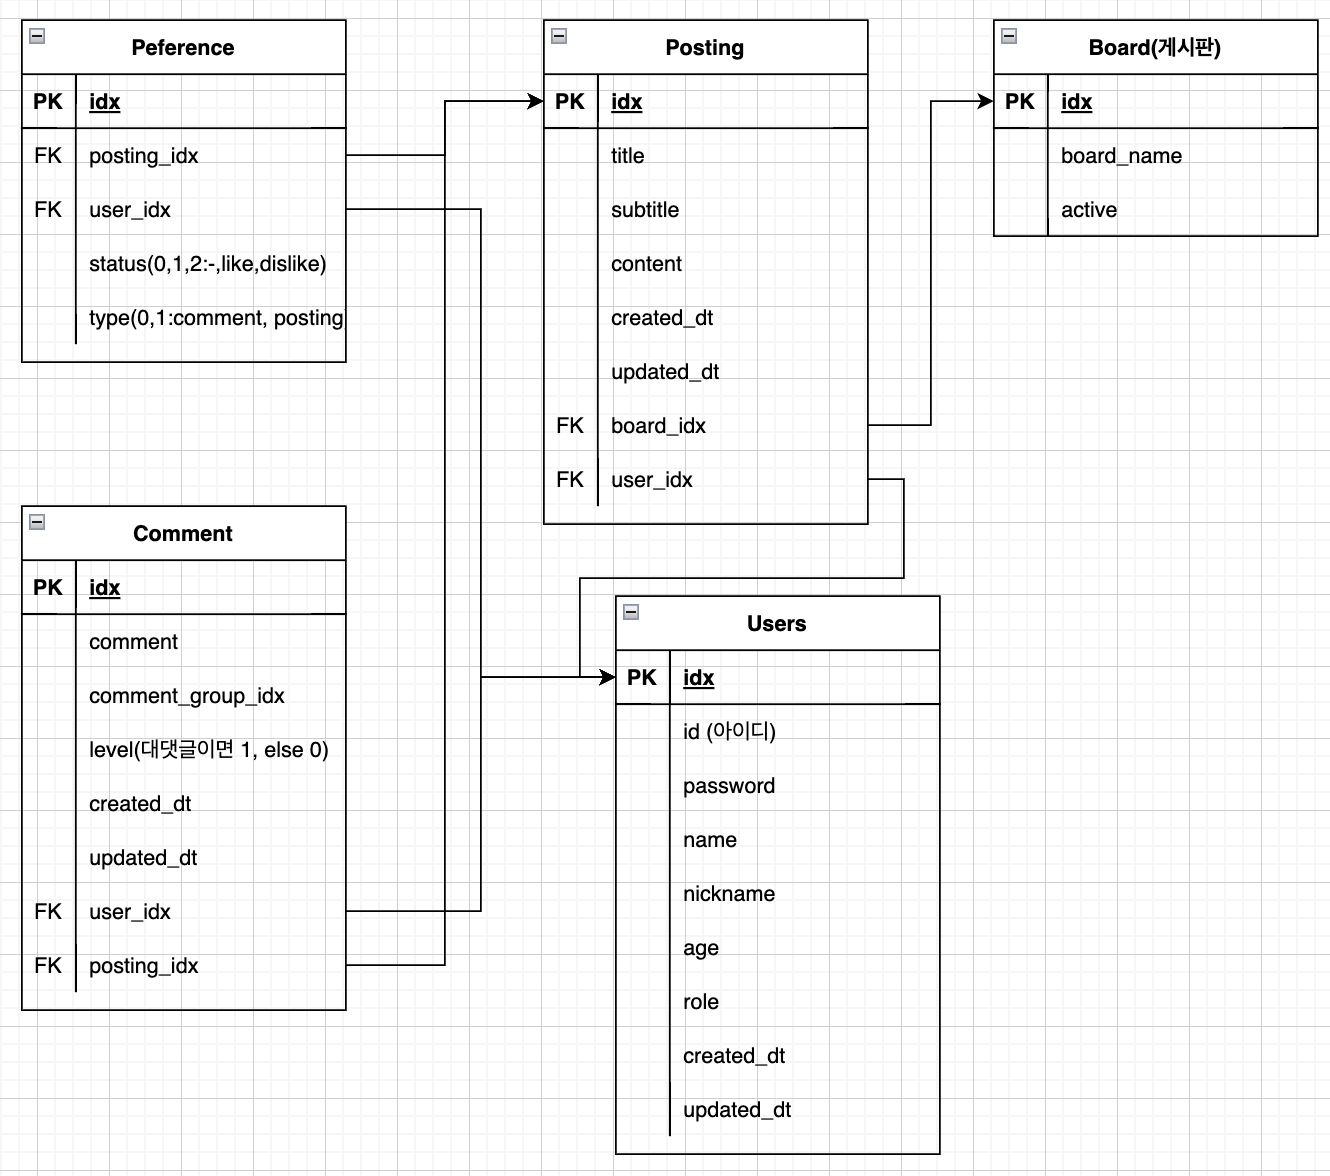
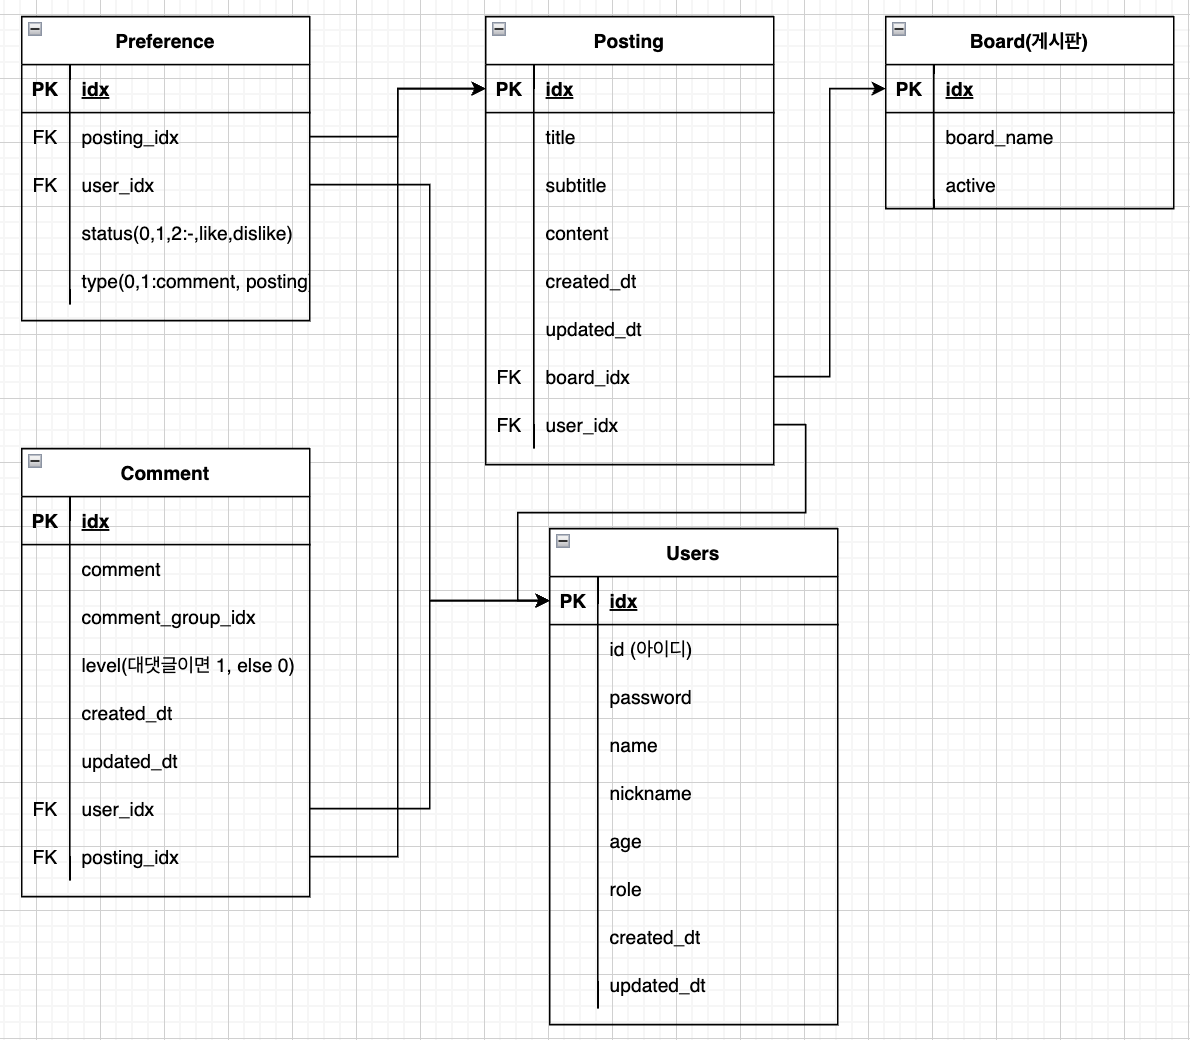
posting: project community - 요구사항 정리 및 db table 설계 오타 수정

diff --git a/_posts/projects/community/2022-03-21-Community1.md b/_posts/projects/community/2022-03-21-Community1.md
@@ -2,7 +2,7 @@
 layout: post
 title: "커뮤니티 홈페이지 사이트를 만들어보자 - 1"
 author: "xi-jjun"
-tags: binary-converter
+tags: project-community
 
 ---
 
@@ -44,11 +44,11 @@ tags: binary-converter
 - `Posting` : 게시글에 관한  테이블. 우리가 게시판에 올릴 게시글에 관한 테이블이다.
 - `User` : 사용자에 관한 테이블.
 - `Comment` : 댓글 게시판. 대댓글 기능을 가질 수 있게끔 설계했다.
-- `Pereference` : 좋아요/싫어요 정보와 누가 눌렀는지에 대한 정보를 갖고 있는 테이블.
+- `Preference` : 좋아요/싫어요 정보와 누가 눌렀는지에 대한 정보를 갖고 있는 테이블.
 
 [여기](https://xerar.tistory.com/44)를 보고 대댓글에 관한 DB 테이블을 설계하는 방법에 대해 배웠다. 
 
-좋아요/싫어요 테이블은 기본적으로 `사용자 : 게시글/댓글` 관계이고, 이는 `m : n` 관계이기 때문에 `@ManyToMany`를 해줘야 한다. 그러나 이렇게 하는 것은 안좋은 방법이기에 `m : 1, 1 : n`으로 풀어내기 위한 테이블을 설계해야 했다. 해당 테이블이 `Pereference`테이블이다. 결국 좋아요의 수를 아는 방법은 *어떤 게시물의 idx를 가진`Pereference`테이블들에서 `status`가 1인 것들의 개수를 세면* 된다. 중복에 관해서는 사용자의 idx또한 좋아요/싫어요 테이블이 갖고 있기 때문에 *같은 status를 2번 입력하는 경우는 무시*하게끔 코드를 작성하면 된다.
+좋아요/싫어요 테이블은 기본적으로 `사용자 : 게시글/댓글` 관계이고, 이는 `m : n` 관계이기 때문에 `@ManyToMany`를 해줘야 한다. 그러나 이렇게 하는 것은 안좋은 방법이기에 `m : 1, 1 : n`으로 풀어내기 위한 테이블을 설계해야 했다. 해당 테이블이 `Preference`테이블이다. 결국 좋아요의 수를 아는 방법은 *어떤 게시물의 idx를 가진`Preference`테이블들에서 `status`가 1인 것들의 개수를 세면* 된다. 중복에 관해서는 사용자의 idx또한 좋아요/싫어요 테이블이 갖고 있기 때문에 *같은 status를 2번 입력하는 경우는 무시*하게끔 코드를 작성하면 된다.
 
 <br>
 
